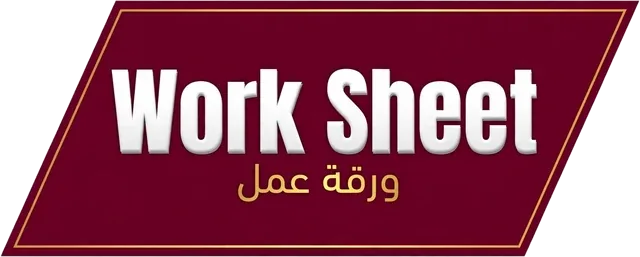
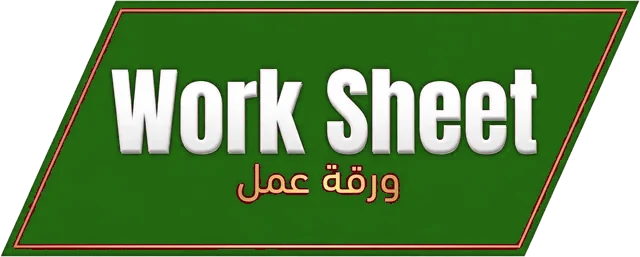
الإنجليزي (الثامن والعاشر): إزالة البنفسجي والوردي وتوحيد الأخضر والبيج، وإصلاح قائمة القواعد
Claude-Session: https://claude.ai/code/session_016ZPsmj5eBk5hK17uvH25Uc

diff --git a/english/10/index.html b/english/10/index.html
@@ -21,7 +21,7 @@ if(/[?&]debug=1/.test(location.search))addEventListener('error',function(e){try{
 
 /* الألوان: --bg1/2/3 يضبطها السكربت من لون الخلفية المختار؛ هذه القيم الافتراضية (بنفسجي غامق) */
 :root{
-  --bg1:#0f2f23; --bg2:#3b1a78; --bg3:#6a2fb8;
+  --bg1:#F4EDE5; --bg2:#FAF6EB; --bg3:#ffffff;
   --gold:#f3c969; --gold2:#ffe7a8; --g3:#c9902f;
   --btn1:#ffe7a8; --btn2:#f3c969; --btnText:#2a1250;
   --text:#fff; --muted:#e4d8ff;
@@ -584,6 +584,7 @@ body.has-tabs .toast{bottom:calc(92px + env(safe-area-inset-bottom,0px))}
 .gtab{display:flex;align-items:center;gap:.8rem;padding:.9rem 1rem;border-radius:18px;text-align:start;cursor:pointer;width:100%;background:var(--panel);border:2px solid var(--cardBd);color:inherit}
 .gtab .gn{width:38px;height:38px;border-radius:50%;display:grid;place-items:center;font:800 1.05rem var(--fb);background:linear-gradient(180deg,var(--btn1),var(--btn2));color:var(--btnText);flex:none}
 .gtab.done{border-color:#2fbf71}.gtab.done .gn{background:#2fbf71;color:#fff}
+.gtab svg{width:22px;height:22px;flex:none;color:var(--muted)}
 .gtab .gt{flex:1;display:flex;flex-direction:column;gap:.1rem;min-width:0}
 .gtab .gt b{font:700 1.02rem var(--fb);direction:ltr;text-align:start}
 .gtab .gt small{font:400 .85rem var(--fb);color:var(--muted)}
@@ -682,12 +683,12 @@ body.has-tabs .toast{bottom:calc(92px + env(safe-area-inset-bottom,0px))}
 .toast small{opacity:.8}
 
 /* --- بطاقات القواعد --- */
-:root{--k-s:#6cc3ff;--k-v:#5ee59a;--k-t:#ffe08a;--k-n:#ff8a9a}
-:root[data-mode="light"]{--k-s:#0d5fa8;--k-v:#13753d;--k-t:#8a5a00;--k-n:#c62828}
+:root{--k-s:#4fa97c;--k-v:#0e6b3c;--k-t:#E3B94D;--k-n:#c9a46a}
+:root[data-mode="light"]{--k-s:#2f7a5a;--k-v:#13753d;--k-t:#8a5a00;--k-n:#9a6b13}
 .k-s{color:var(--k-s);font-weight:700}
 .k-v{color:var(--k-v);font-weight:700}
 .k-t{color:var(--k-t);font-weight:700;background:rgba(243,201,105,.2);padding:0 .3em;border-radius:6px;border-bottom:2px solid var(--gold)}
-.k-n{color:var(--k-n);font-weight:700;background:rgba(255,100,120,.16);padding:0 .3em;border-radius:6px;border-bottom:2px solid var(--k-n)}
+.k-n{color:var(--k-n);font-weight:700;background:rgba(227,185,77,.22);padding:0 .3em;border-radius:6px;border-bottom:2px solid var(--k-n)}
 .rcard{padding:1.1rem 1rem;display:flex;flex-direction:column;justify-content:center;gap:.8rem;min-height:min(92vw,430px);animation:rise .35s ease-out both}
 .rdots{display:flex;justify-content:center;gap:6px}
 .rdots i{width:26px;height:6px;border-radius:9px;background:var(--panel)}
@@ -2307,7 +2308,7 @@ if(document.readyState==="loading")document.addEventListener("DOMContentLoaded",
   var PRAISE=[['ممتاز! 🌟','Excellent! 🌟'],['أحسنت! 👏','Great job! 👏'],['رائع! 🔥','Awesome! 🔥'],['إجابة صحيحة! ✅','Correct! ✅'],['يا بطل! 💪','Champion! 💪'],['مذهل! 🚀','Amazing! 🚀']];
   var RETRYOK=[['نجحت أخيراً! المهمّ أنك لم تستسلم 💪','You got it! You never gave up 💪'],['برافو! المحاولة الثانية أقوى 🌱','Bravo! Second try, stronger 🌱']];
   var WRONGS=[['لا بأس، حاول مرة أخرى 💪','No worries, try again 💪'],['قريب! جرّب ثانية 🎯','Close! Try once more 🎯'],['الخطأ يعلّمنا، أنت تتقدّم 🌱','Mistakes help us learn 🌱']];
-  var PCOL=['#ff7a8a','#f3c969','#4fd69b','#5db8ff','#b98cff','#ff9f5a','#2fd1c0','#f472b6'];
+  var PCOL=['#0e6b3c','#c9a43a','#2f9e6b','#1a8350','#b88a2e','#4fa97c','#8a6d1f','#3d8f66'];
   function runQs(box,qs,opt,done){
     var i=opt.start||0,score=0,streak=0;
     function cheer(c,ok,first){
@@ -2415,7 +2416,7 @@ if(document.readyState==="loading")document.addEventListener("DOMContentLoaded",
     var v=L.vocab||[],sub0=subFor(0),i=(sub0&&sub0.i>0&&sub0.i<v.length)?sub0.i:0;
     st.innerHTML=head(0)+'<div id="vArea"></div>';
     var area=st.querySelector('#vArea');
-    var WCOL=['#ff7a8a','#f3c969','#4fd69b','#5db8ff','#b98cff','#ff9f5a','#2fd1c0','#f472b6'];
+    var WCOL=['#0e6b3c','#c9a43a','#2f9e6b','#1a8350','#b88a2e','#4fa97c','#8a6d1f','#3d8f66'];
     function ov(w){return (window.LEXORA_HL||{})[L.id+'|'+w.en]||{}}
     function arNorm(t){return t.replace(/[\u064B-\u065F\u0670\u0640]/g,'').replace(/[إأآ]/g,'ا').replace(/ى/g,'ي').replace(/ة/g,'ه')}
     function markIn(text,phrase){var k=text.indexOf(phrase);return esc(text.slice(0,k))+'<mark>'+esc(phrase)+'</mark>'+esc(text.slice(k+phrase.length))}
@@ -2718,7 +2719,7 @@ if(document.readyState==="loading")document.addEventListener("DOMContentLoaded",
   }
   /* ----- بطاقات القاعدة: تعريف ← تكوين ← نفي ← سؤال ← ملاحظة، وبعد كلّ بطاقة زرّ «أكمل» ----- */
   var RC_ICON={pos:'✅',neg:'❌',q:'❓',note:'💡',sig:'🎯'};
-  var SWCOL=['#ff7a8a','#f3c969','#4fd69b','#5db8ff','#b98cff','#ff9f5a','#2fd1c0','#f472b6'];
+  var SWCOL=['#0e6b3c','#c9a43a','#2f9e6b','#1a8350','#b88a2e','#4fa97c','#8a6d1f','#3d8f66'];
   function kfmt(t){return esc(t).replace(/\{(s|t|v|n)\|([^}]*)\}/g,'<span class="k-$1">$2</span>').replace(/\n/g,'<br>')}
   function kplain(t){return t.replace(/\{[stvn]\|([^}]*)\}/g,'$1')}
   function rcExamples(list){

diff --git a/english/8/index.html b/english/8/index.html
@@ -21,7 +21,7 @@ if(/[?&]debug=1/.test(location.search))addEventListener('error',function(e){try{
 
 /* الألوان: --bg1/2/3 يضبطها السكربت من لون الخلفية المختار؛ هذه القيم الافتراضية (بنفسجي غامق) */
 :root{
-  --bg1:#0f2f23; --bg2:#3b1a78; --bg3:#6a2fb8;
+  --bg1:#F4EDE5; --bg2:#FAF6EB; --bg3:#ffffff;
   --gold:#f3c969; --gold2:#ffe7a8; --g3:#c9902f;
   --btn1:#ffe7a8; --btn2:#f3c969; --btnText:#2a1250;
   --text:#fff; --muted:#e4d8ff;
@@ -584,6 +584,7 @@ body.has-tabs .toast{bottom:calc(92px + env(safe-area-inset-bottom,0px))}
 .gtab{display:flex;align-items:center;gap:.8rem;padding:.9rem 1rem;border-radius:18px;text-align:start;cursor:pointer;width:100%;background:var(--panel);border:2px solid var(--cardBd);color:inherit}
 .gtab .gn{width:38px;height:38px;border-radius:50%;display:grid;place-items:center;font:800 1.05rem var(--fb);background:linear-gradient(180deg,var(--btn1),var(--btn2));color:var(--btnText);flex:none}
 .gtab.done{border-color:#2fbf71}.gtab.done .gn{background:#2fbf71;color:#fff}
+.gtab svg{width:22px;height:22px;flex:none;color:var(--muted)}
 .gtab .gt{flex:1;display:flex;flex-direction:column;gap:.1rem;min-width:0}
 .gtab .gt b{font:700 1.02rem var(--fb);direction:ltr;text-align:start}
 .gtab .gt small{font:400 .85rem var(--fb);color:var(--muted)}
@@ -682,12 +683,12 @@ body.has-tabs .toast{bottom:calc(92px + env(safe-area-inset-bottom,0px))}
 .toast small{opacity:.8}
 
 /* --- بطاقات القواعد --- */
-:root{--k-s:#6cc3ff;--k-v:#5ee59a;--k-t:#ffe08a;--k-n:#ff8a9a}
-:root[data-mode="light"]{--k-s:#0d5fa8;--k-v:#13753d;--k-t:#8a5a00;--k-n:#c62828}
+:root{--k-s:#4fa97c;--k-v:#0e6b3c;--k-t:#E3B94D;--k-n:#c9a46a}
+:root[data-mode="light"]{--k-s:#2f7a5a;--k-v:#13753d;--k-t:#8a5a00;--k-n:#9a6b13}
 .k-s{color:var(--k-s);font-weight:700}
 .k-v{color:var(--k-v);font-weight:700}
 .k-t{color:var(--k-t);font-weight:700;background:rgba(243,201,105,.2);padding:0 .3em;border-radius:6px;border-bottom:2px solid var(--gold)}
-.k-n{color:var(--k-n);font-weight:700;background:rgba(255,100,120,.16);padding:0 .3em;border-radius:6px;border-bottom:2px solid var(--k-n)}
+.k-n{color:var(--k-n);font-weight:700;background:rgba(227,185,77,.22);padding:0 .3em;border-radius:6px;border-bottom:2px solid var(--k-n)}
 .rcard{padding:1.1rem 1rem;display:flex;flex-direction:column;justify-content:center;gap:.8rem;min-height:min(92vw,430px);animation:rise .35s ease-out both}
 .rdots{display:flex;justify-content:center;gap:6px}
 .rdots i{width:26px;height:6px;border-radius:9px;background:var(--panel)}
@@ -2293,7 +2294,7 @@ if(document.readyState==="loading")document.addEventListener("DOMContentLoaded",
   var PRAISE=[['ممتاز! 🌟','Excellent! 🌟'],['أحسنت! 👏','Great job! 👏'],['رائع! 🔥','Awesome! 🔥'],['إجابة صحيحة! ✅','Correct! ✅'],['يا بطل! 💪','Champion! 💪'],['مذهل! 🚀','Amazing! 🚀']];
   var RETRYOK=[['نجحت أخيراً! المهمّ أنك لم تستسلم 💪','You got it! You never gave up 💪'],['برافو! المحاولة الثانية أقوى 🌱','Bravo! Second try, stronger 🌱']];
   var WRONGS=[['لا بأس، حاول مرة أخرى 💪','No worries, try again 💪'],['قريب! جرّب ثانية 🎯','Close! Try once more 🎯'],['الخطأ يعلّمنا، أنت تتقدّم 🌱','Mistakes help us learn 🌱']];
-  var PCOL=['#ff7a8a','#f3c969','#4fd69b','#5db8ff','#b98cff','#ff9f5a','#2fd1c0','#f472b6'];
+  var PCOL=['#0e6b3c','#c9a43a','#2f9e6b','#1a8350','#b88a2e','#4fa97c','#8a6d1f','#3d8f66'];
   function runQs(box,qs,opt,done){
     var i=opt.start||0,score=0,streak=0;
     function cheer(c,ok,first){
@@ -2401,7 +2402,7 @@ if(document.readyState==="loading")document.addEventListener("DOMContentLoaded",
     var v=L.vocab||[],sub0=subFor(0),i=(sub0&&sub0.i>0&&sub0.i<v.length)?sub0.i:0;
     st.innerHTML=head(0)+'<div id="vArea"></div>';
     var area=st.querySelector('#vArea');
-    var WCOL=['#ff7a8a','#f3c969','#4fd69b','#5db8ff','#b98cff','#ff9f5a','#2fd1c0','#f472b6'];
+    var WCOL=['#0e6b3c','#c9a43a','#2f9e6b','#1a8350','#b88a2e','#4fa97c','#8a6d1f','#3d8f66'];
     function ov(w){return (window.LEXORA_HL||{})[L.id+'|'+w.en]||{}}
     function arNorm(t){return t.replace(/[\u064B-\u065F\u0670\u0640]/g,'').replace(/[إأآ]/g,'ا').replace(/ى/g,'ي').replace(/ة/g,'ه')}
     function markIn(text,phrase){var k=text.indexOf(phrase);return esc(text.slice(0,k))+'<mark>'+esc(phrase)+'</mark>'+esc(text.slice(k+phrase.length))}
@@ -2704,7 +2705,7 @@ if(document.readyState==="loading")document.addEventListener("DOMContentLoaded",
   }
   /* ----- بطاقات القاعدة: تعريف ← تكوين ← نفي ← سؤال ← ملاحظة، وبعد كلّ بطاقة زرّ «أكمل» ----- */
   var RC_ICON={pos:'✅',neg:'❌',q:'❓',note:'💡',sig:'🎯'};
-  var SWCOL=['#ff7a8a','#f3c969','#4fd69b','#5db8ff','#b98cff','#ff9f5a','#2fd1c0','#f472b6'];
+  var SWCOL=['#0e6b3c','#c9a43a','#2f9e6b','#1a8350','#b88a2e','#4fa97c','#8a6d1f','#3d8f66'];
   function kfmt(t){return esc(t).replace(/\{(s|t|v|n)\|([^}]*)\}/g,'<span class="k-$1">$2</span>').replace(/\n/g,'<br>')}
   function kplain(t){return t.replace(/\{[stvn]\|([^}]*)\}/g,'$1')}
   function rcExamples(list){

diff --git a/english/8/sw.js b/english/8/sw.js
@@ -1,6 +1,6 @@
 /* عامل خدمة اللغة الإنجليزية (الثامن): يعمل التطبيق بعد أول زيارة حتى بلا إنترنت. يحذف ذاكرته وحدها (lex8-). */
 const P = "lex8-";
-const V = P + "v1";
+const V = P + "v2";
 const CORE = ["./", "./index.html", "./manifest.webmanifest", "./icons/icon-192.png", "./icons/icon-512.png",
   "./images/logo.jpg", "./images/certificate.jpg", "./data/lessons.js", "./data/practice.js", "./data/rulecards.js", "./data/highlights.js", "./data/summaries-u1.js", "./data/summaries-u2.js", "./data/summaries-u3.js", "./data/summaries-u4.js", "./data/summaries-u5.js", "./data/summaries-u6.js", "./data/summaries-u7.js", "./data/summaries-u8.js", "./data/summaries-u9.js", "./data/summaries-u10.js", "./data/summaries-u11.js", "./data/summaries-u12.js",
   "./fonts/aref-ruqaa-arabic-700.woff2", "./fonts/cinzel-latin-700.woff2"];

diff --git a/english/10/sw.js b/english/10/sw.js
@@ -1,6 +1,6 @@
 /* عامل خدمة اللغة الإنجليزية: يعمل التطبيق بعد أول زيارة حتى بلا إنترنت. يحذف ذاكرته وحدها (lex10-). */
 const P = "lex10-";
-const V = P + "v40";
+const V = P + "v41";
 const CORE = ["./", "./index.html", "./manifest.webmanifest", "./icons/icon-192.png", "./icons/icon-512.png",
   "./images/logo.jpg", "./images/certificate.jpg", "./data/lessons.js", "./data/practice.js", "./data/rulecards.js", "./data/highlights.js", "./data/summaries-u1.js", "./data/summaries-u2.js", "./data/summaries-u3.js", "./data/summaries-u4.js", "./data/summaries-u5.js", "./data/summaries-u6.js", "./data/summaries-u7.js", "./data/summaries-u8.js", "./data/summaries-u9.js", "./data/summaries-u10.js",
   "./fonts/aref-ruqaa-arabic-700.woff2", "./fonts/cinzel-latin-700.woff2"];
